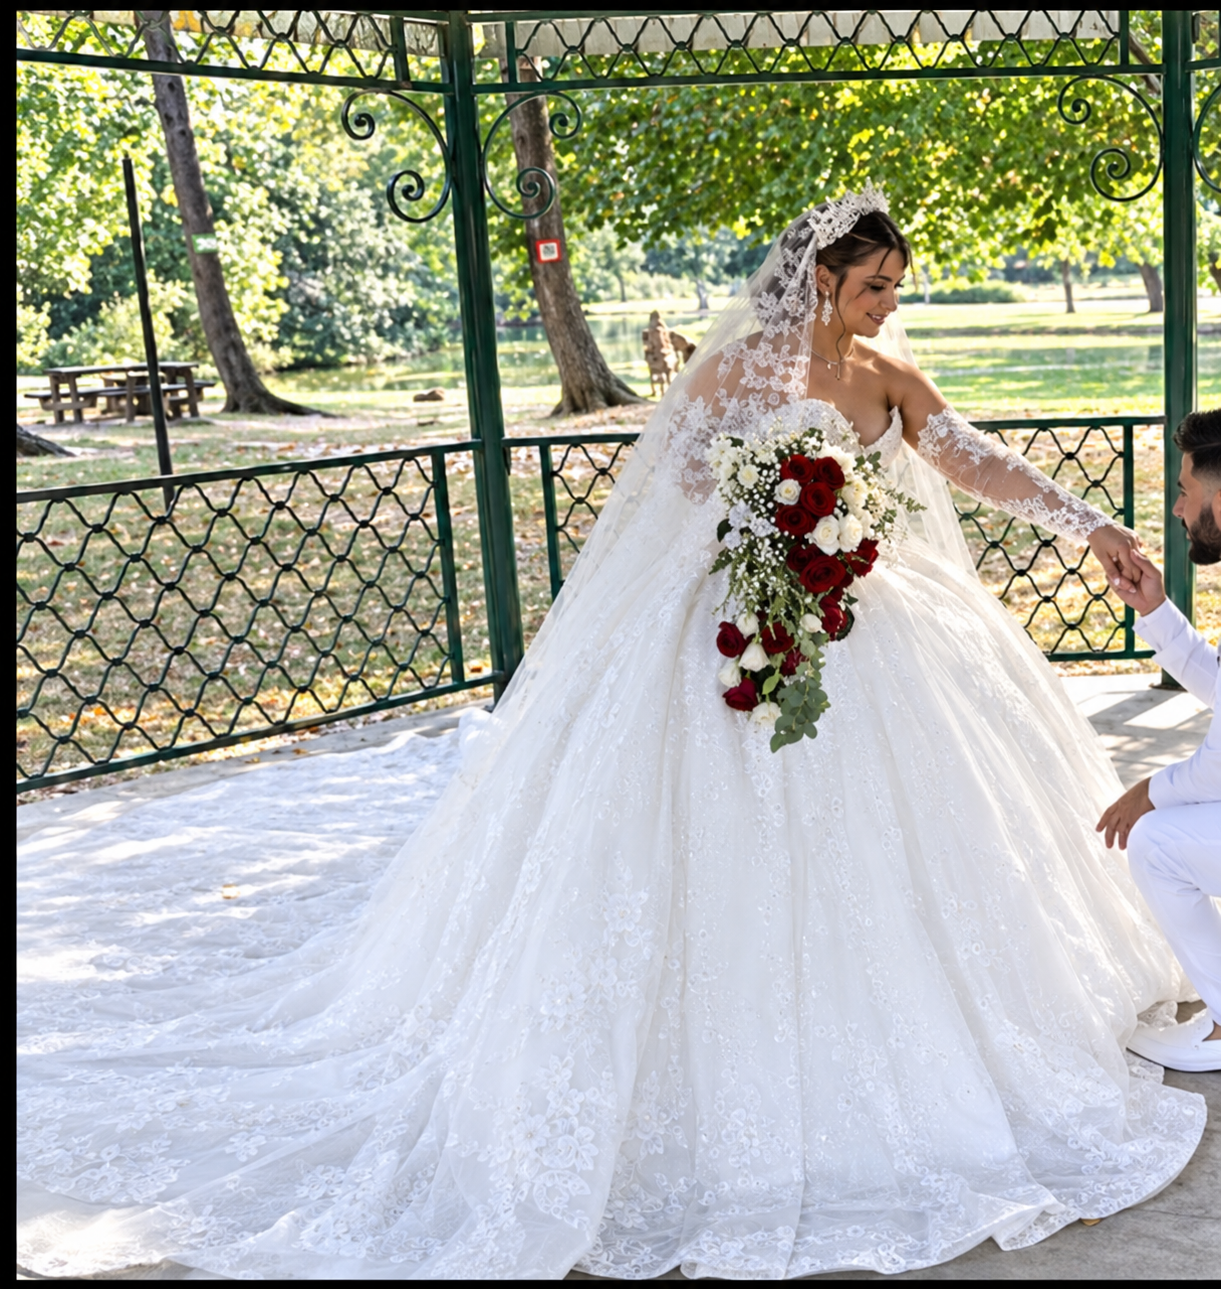
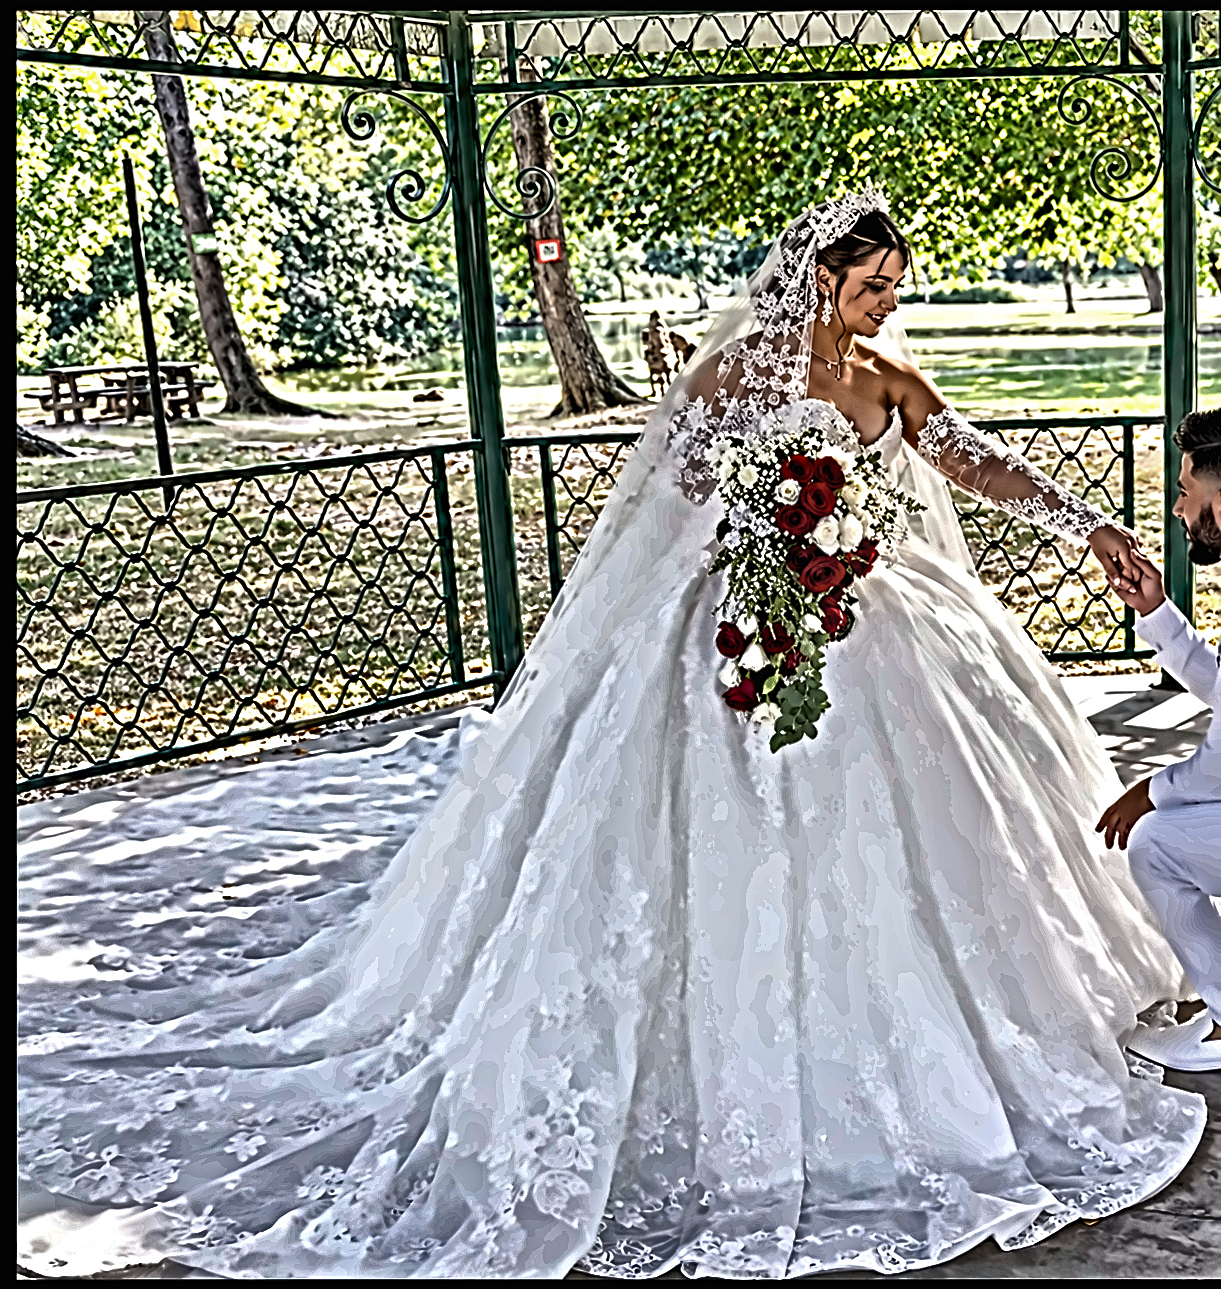
feat: enhance and sharpen authentic atelier photos with CLAHE detail enhancement & unoptimized HD delivery

diff --git a/next.config.ts b/next.config.ts
@@ -2,6 +2,9 @@ import type { NextConfig } from "next";
 
 const nextConfig: NextConfig = {
   /* config options here */
+  images: {
+    unoptimized: true,
+  },
   cacheComponents: true,
   partialPrefetching: true,
   turbopack: {
